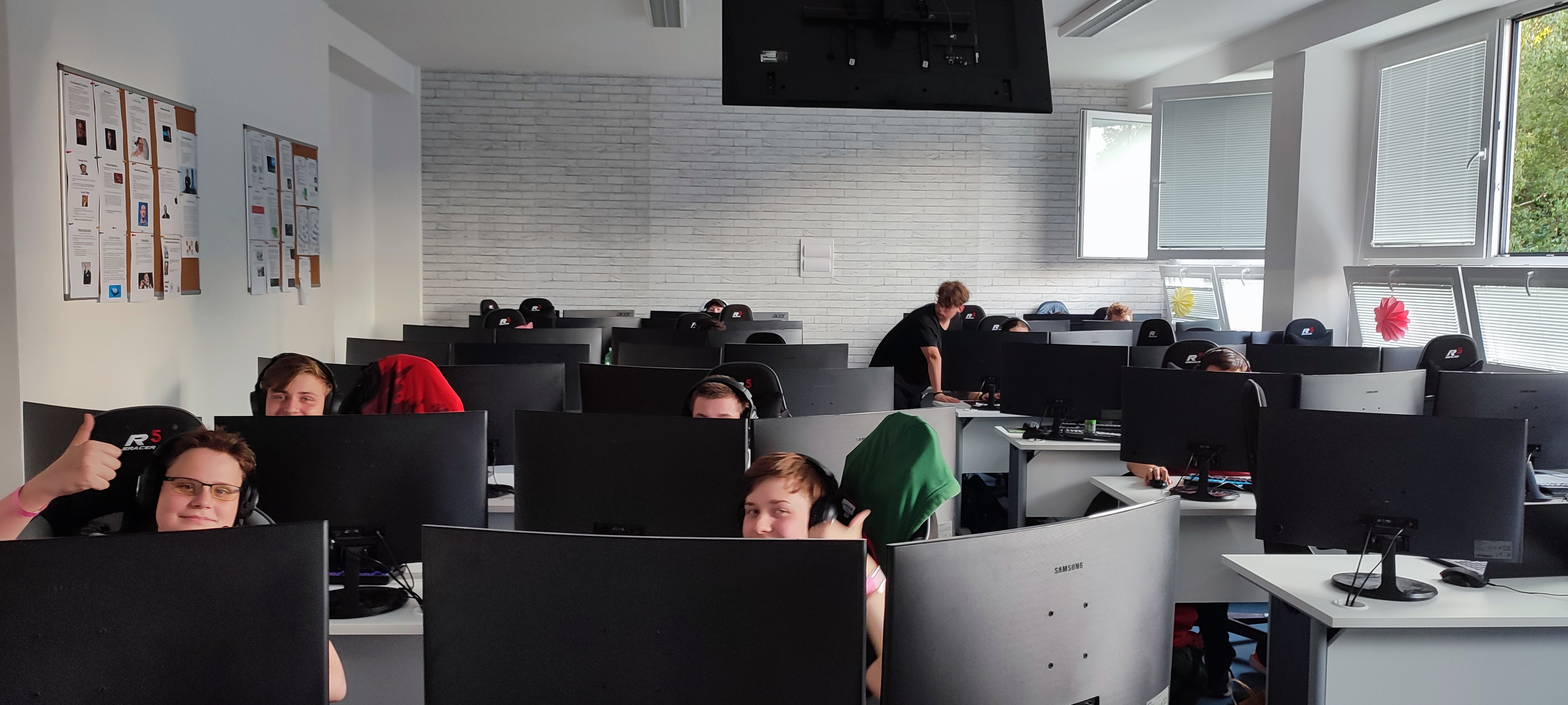
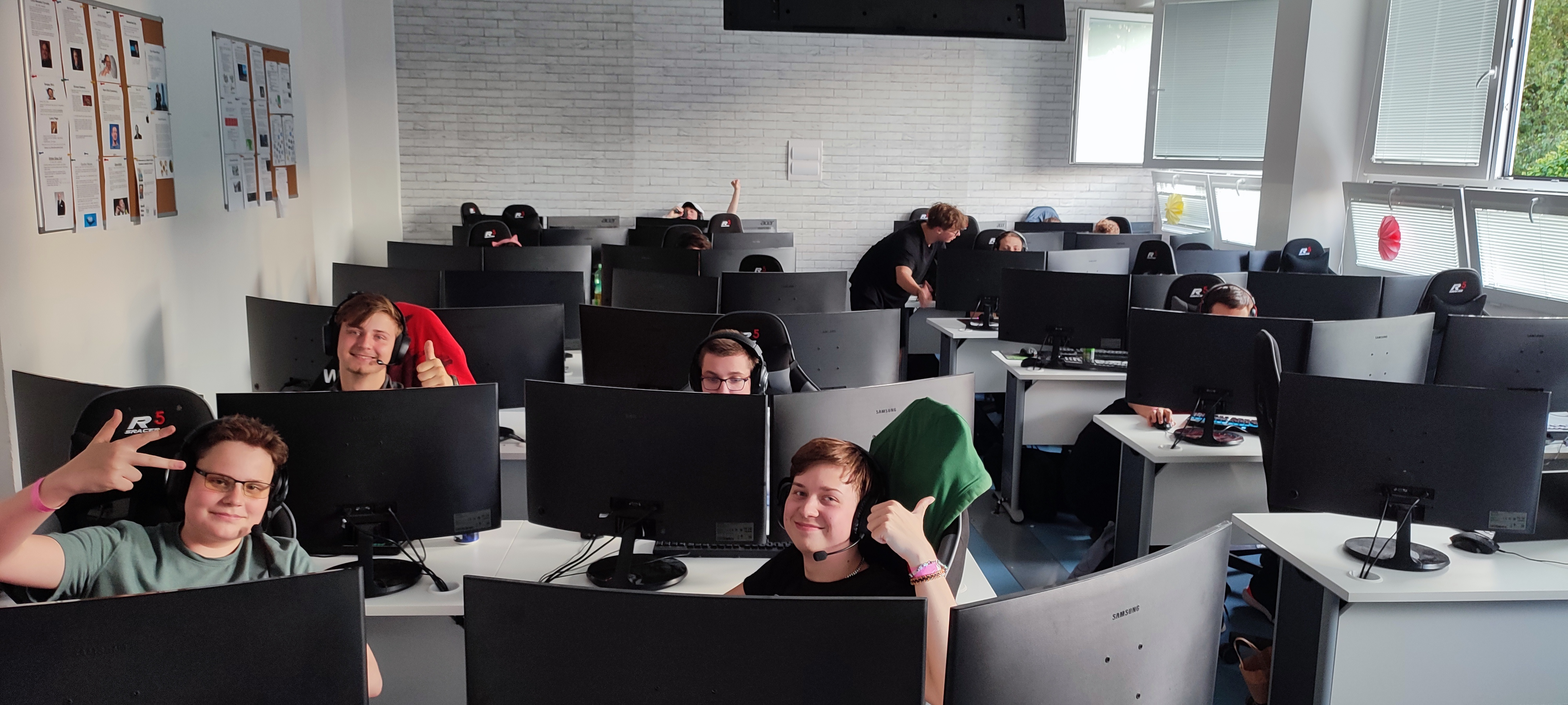
FEAT: Use summer2024 image in homepage hero
Replace the homepage hero light image with a new summer 2024 photo and add the image asset. Updates app/page.tsx to point to /images/history/summer2024/IMG_20240607_195534.jpg and includes the corresponding image file in public/images/history/summer2024.

diff --git a/app/page.tsx b/app/page.tsx
@@ -13,7 +13,7 @@ export default function HomePage() {
                     <img src="/images/banner3.jpeg" alt=""/>
                 </div>
                 <div className={`${styles.heroImage} ${styles.heroImageLight}`}>
-                    <img src="/images/banner2.jpeg" alt=""/>
+                    <img src="/images/history/summer2024/IMG_20240607_195534.jpg" alt=""/>
                 </div>
                 <div className={styles.heroOverlay}/>
                 <div className={styles.heroContent}>
